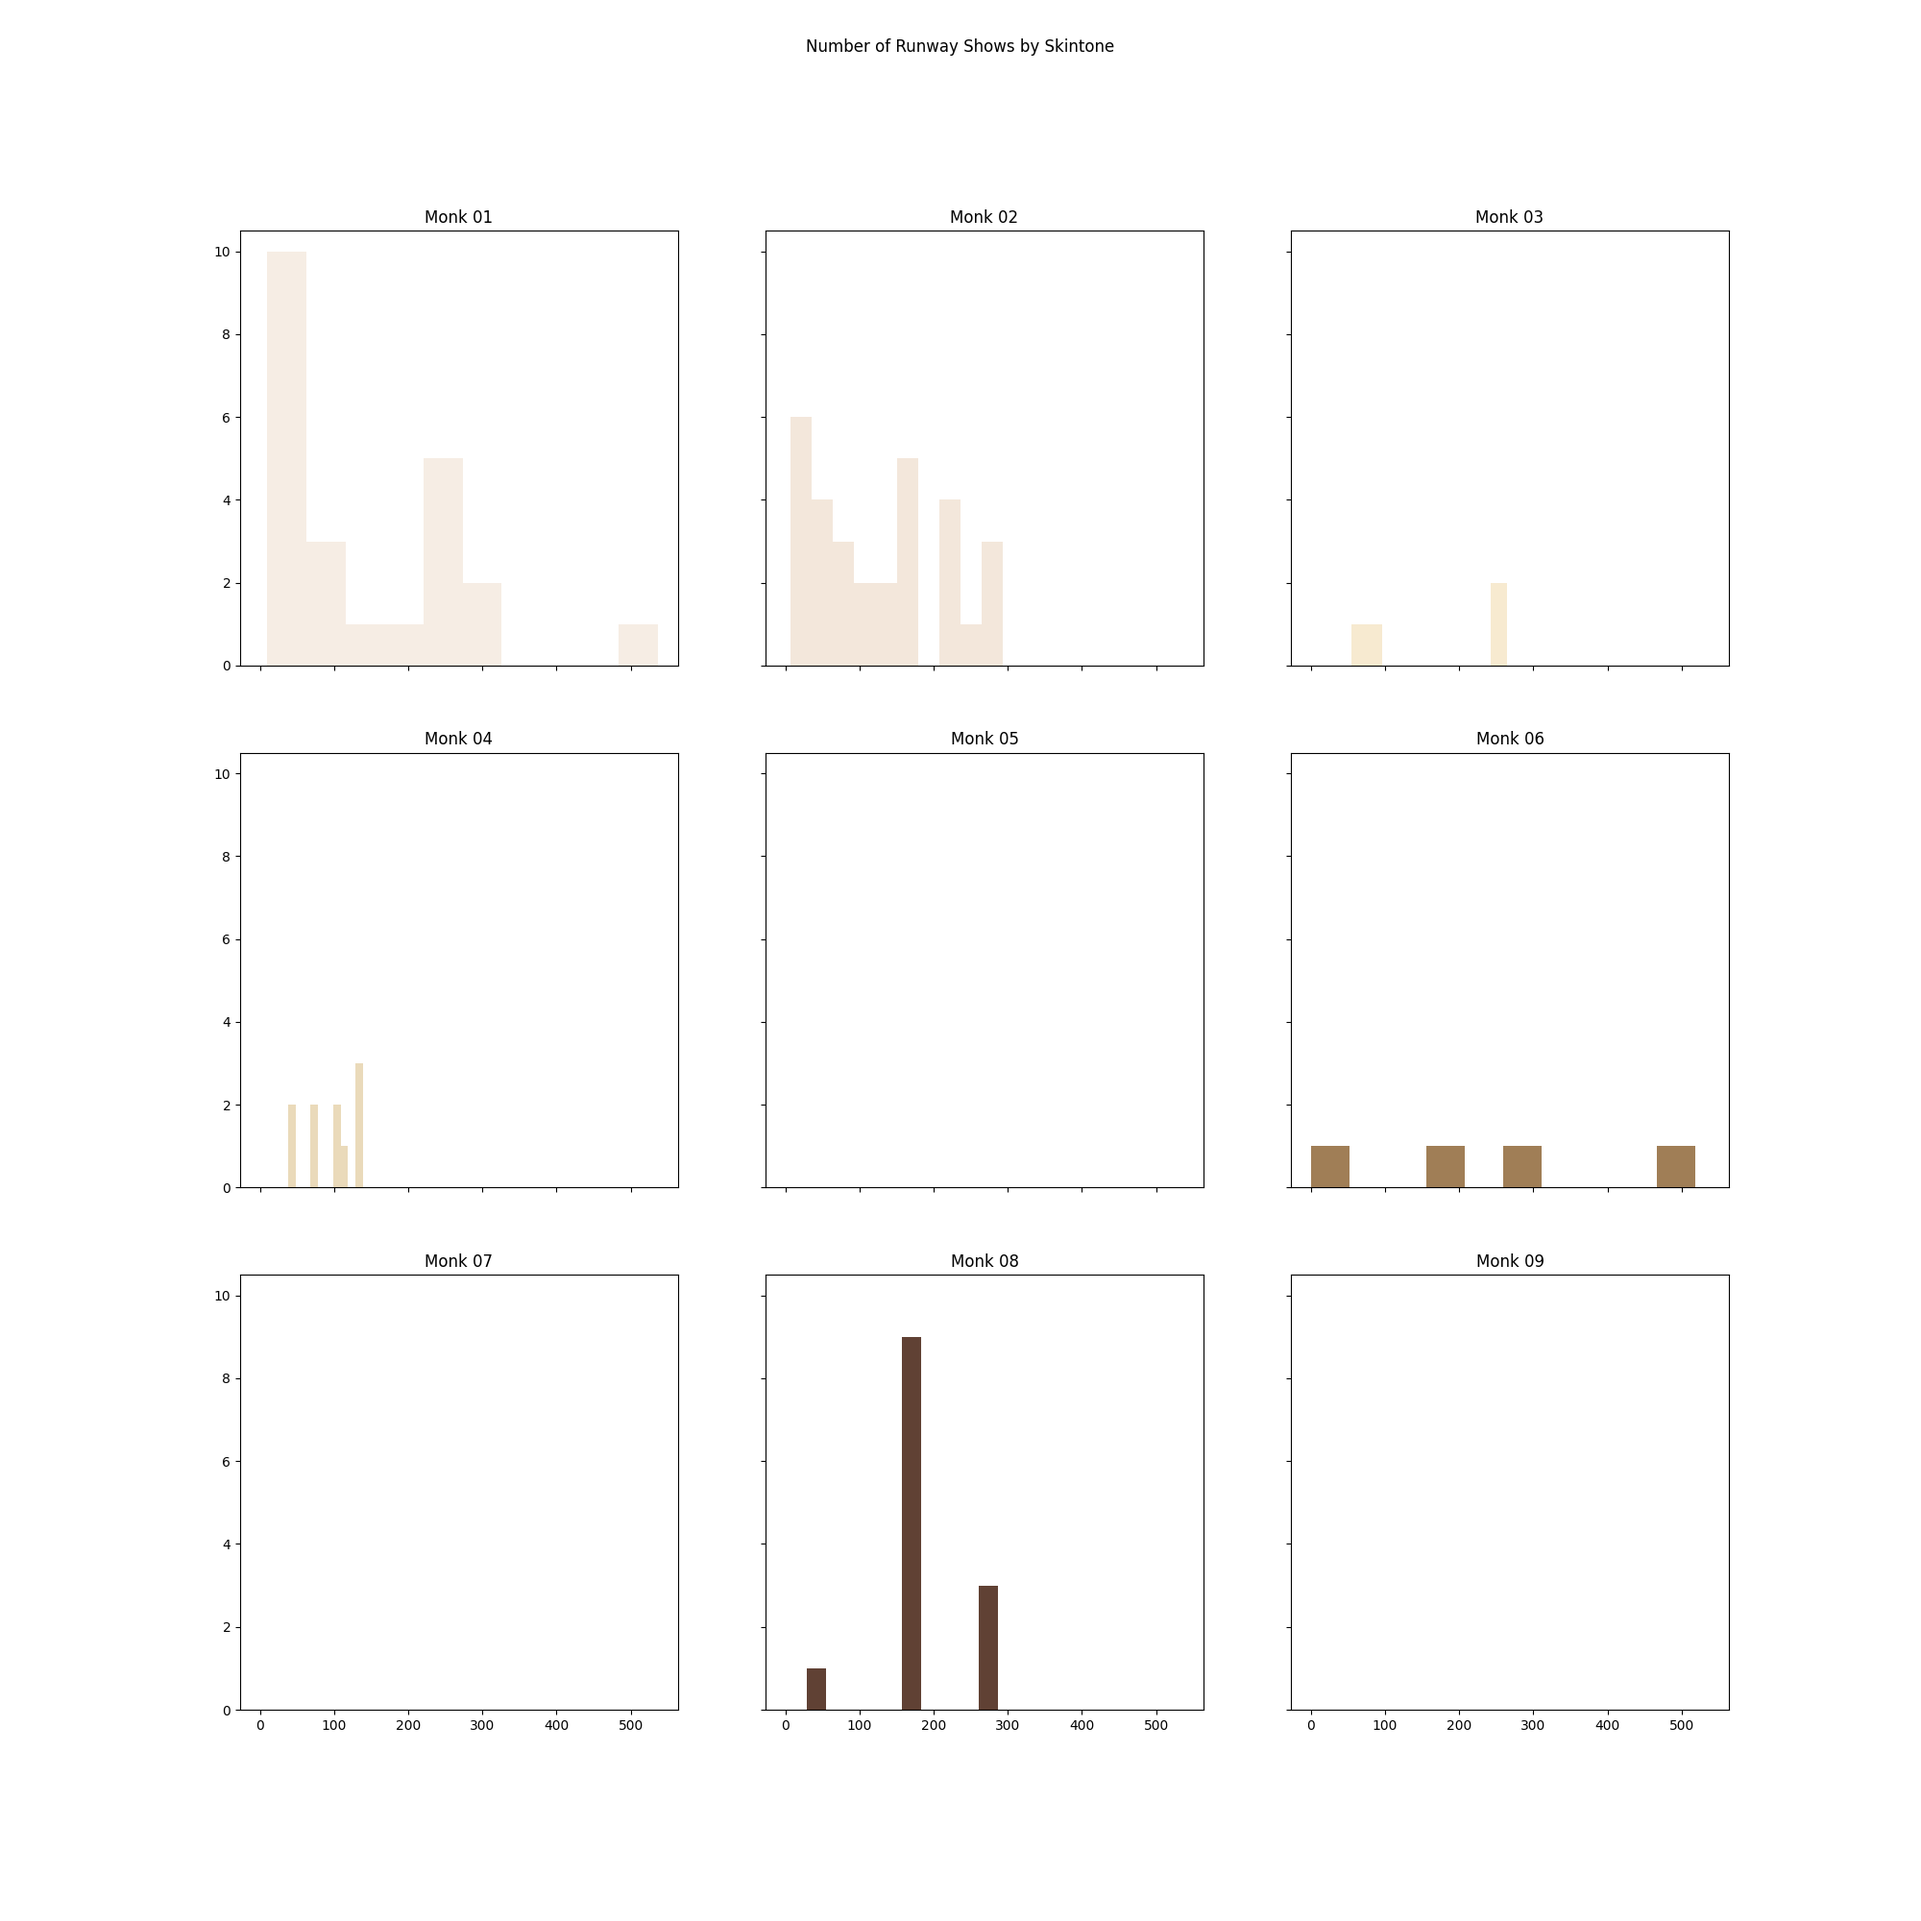
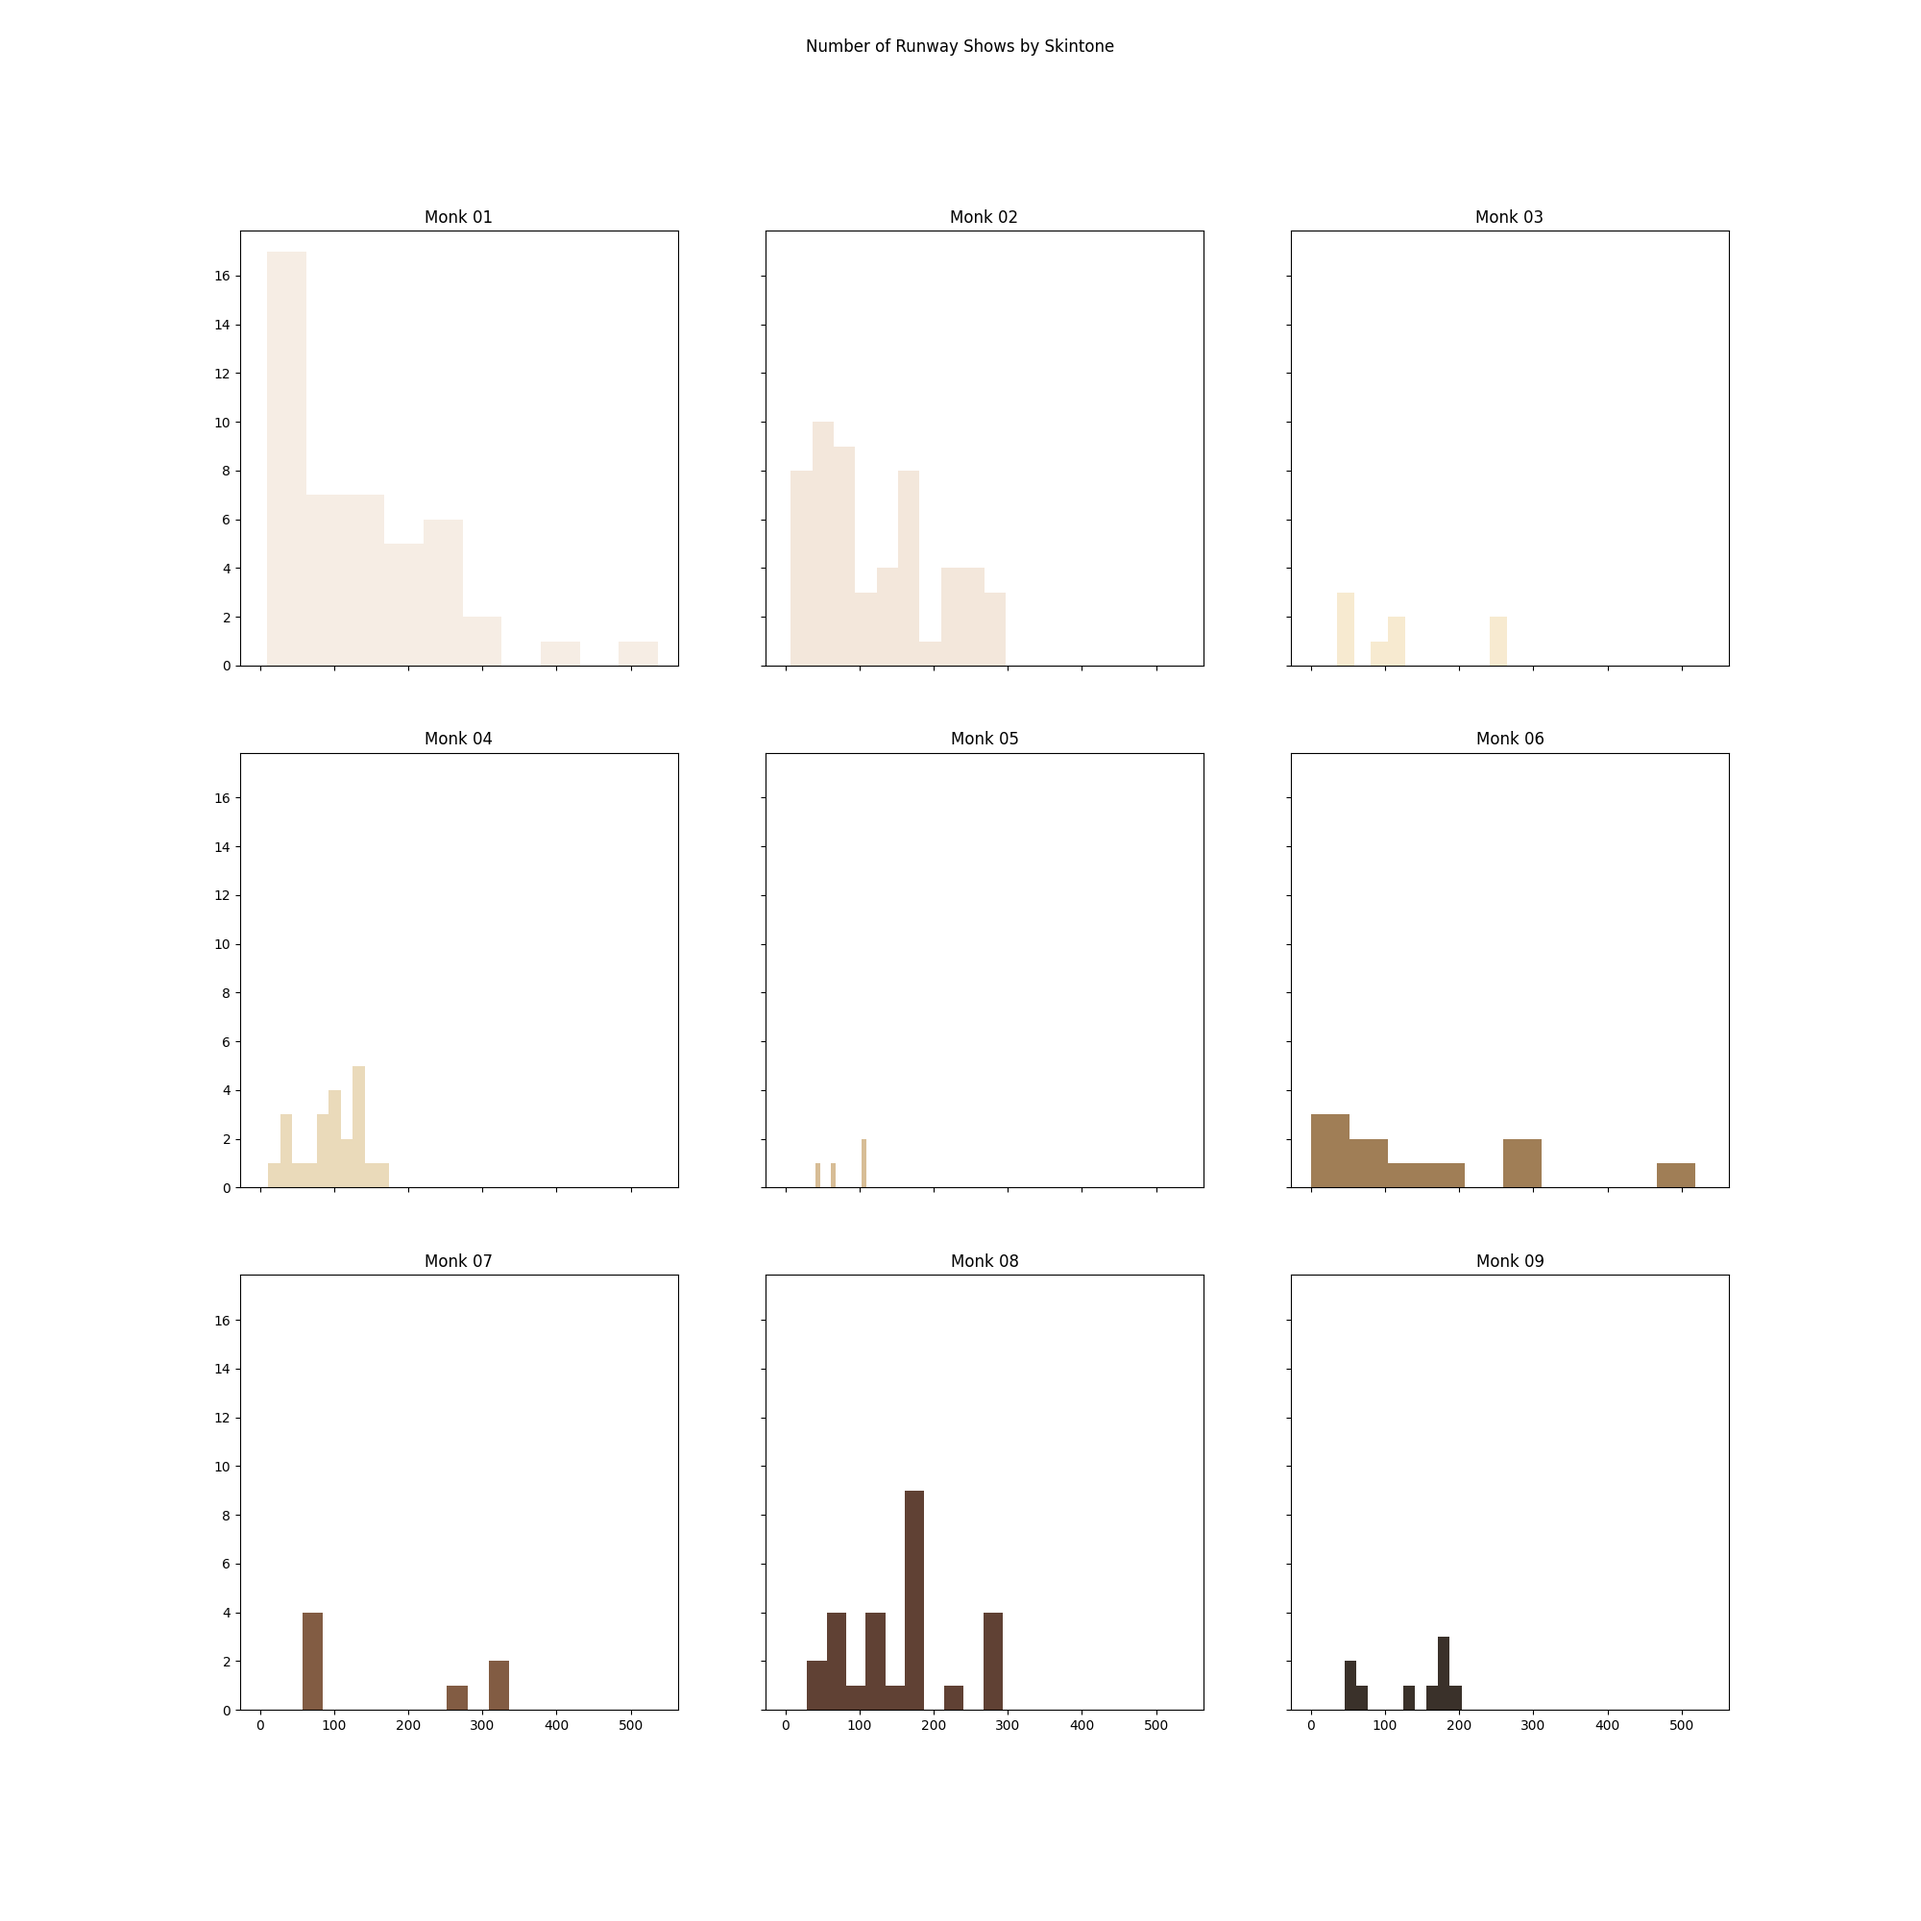
Added runway data for top 50

diff --git a/preprocess_models.py b/preprocess_models.py
@@ -351,10 +351,13 @@ def skintone_vs_moty_bs(skintones_df, moty_df):
     plt.savefig('images/moty_bs_winners_by_skintone.png')
     plt.show()
     
-def skintone_vs_runway(skintones_df, moty_df):
+def skintone_vs_runway(skintones_df, moty_df, top_50_f, top_50_m):
     plt.figure(figsize=(10, 8))
     combined_data = pd.merge(moty_df, skintones_df, on='name', how='inner').rename(columns={'skin_tone_y': 'skin_tone', 'skin_tone_x': 'skin_tone_moty'})
-    combined_data = combined_data.drop(columns=['R', 'G', 'B', 'skin_tone_moty'])
+    combined_data_f = pd.merge(top_50_f, skintones_df, on='name', how='inner').rename(columns={'skin_tone_y': 'skin_tone', 'skin_tone_x': 'skin_tone_top_50_f'})
+    combined_data_m = pd.merge(top_50_m, skintones_df, on='name', how='inner').rename(columns={'skin_tone_y': 'skin_tone', 'skin_tone_x': 'skin_tone_top_50_m'})
+    combined_data = pd.concat([combined_data, combined_data_f, combined_data_m], axis=0)
+    combined_data = combined_data.drop(columns=['R', 'G', 'B', 'skin_tone_moty', 'skin_tone_top_50_f', 'skin_tone_top_50_m'])
     combined_data.loc[:, 'skin_tone'] = combined_data.loc[:, 'skin_tone'].astype(int)
     # plot histograms of number of runway shows by skintone
     fig, axs = plt.subplots(3, 3, figsize=(20, 20), sharey=True, sharex=True)
@@ -514,7 +517,7 @@ def main():
     
     skintone_vs_gender(skintones_df, moty_df, top_50_male, top_50_female)
     skintone_vs_moty_bs(skintones_df, moty_df)
-    skintone_vs_runway(skintones_df, moty_df)
+    skintone_vs_runway(skintones_df, moty_df, top_50_female, top_50_male)
     mean_skintone_of_moty_bs_over_time(skintones_df, moty_df)
     campaigns_vs_skintone(top_50_female, top_50_male, skintones_df)
     covers_vs_skintone(top_50_female, top_50_male, skintones_df)
